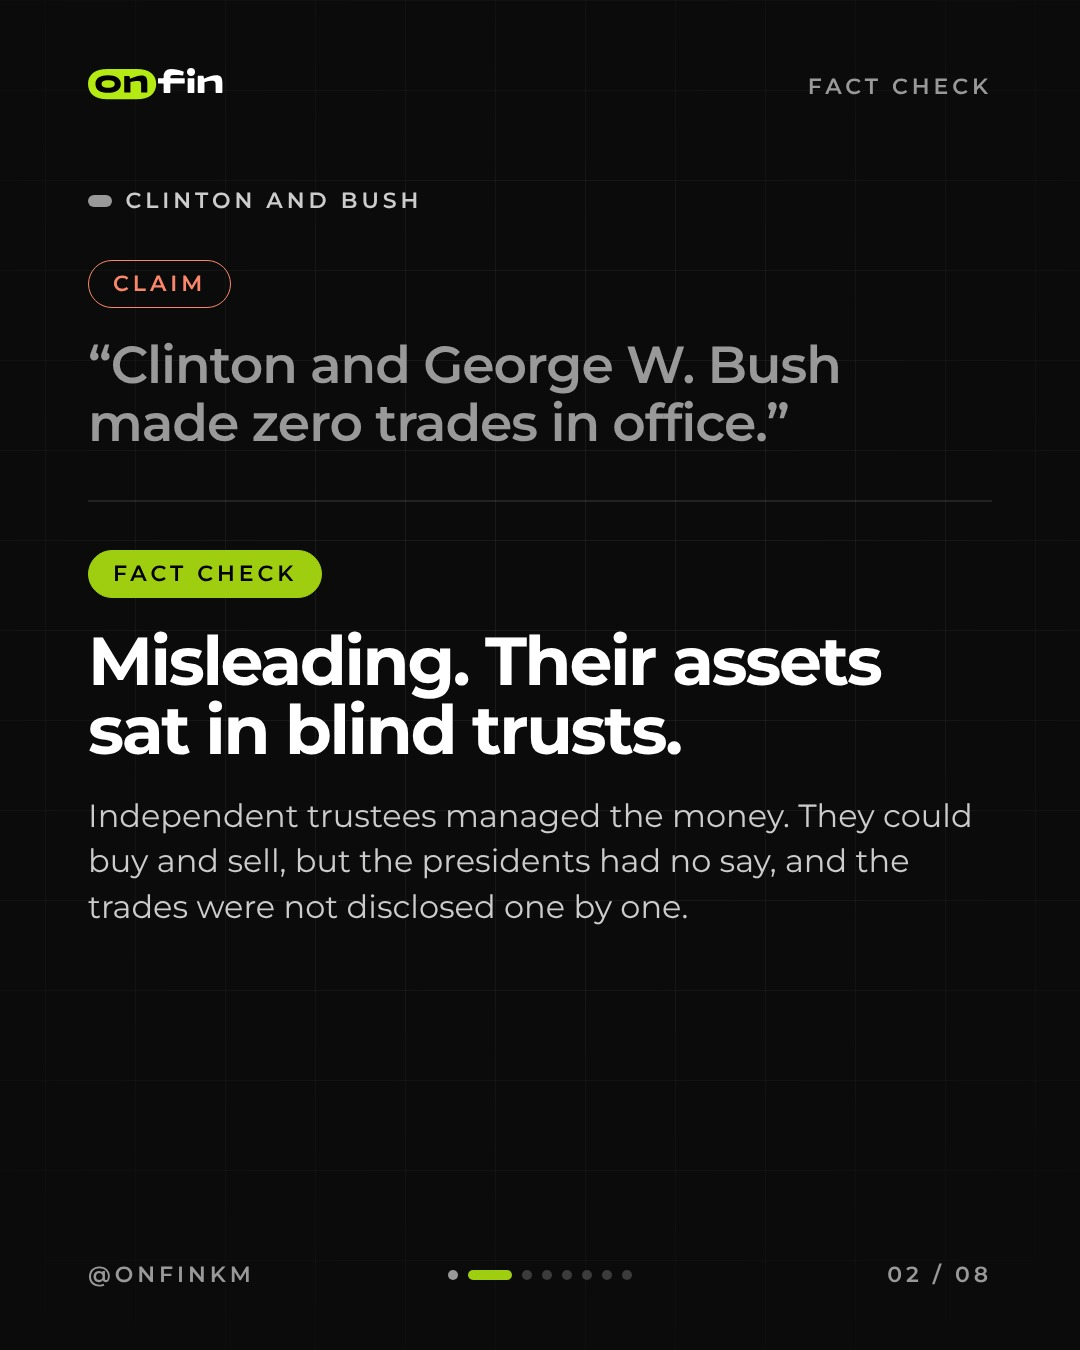
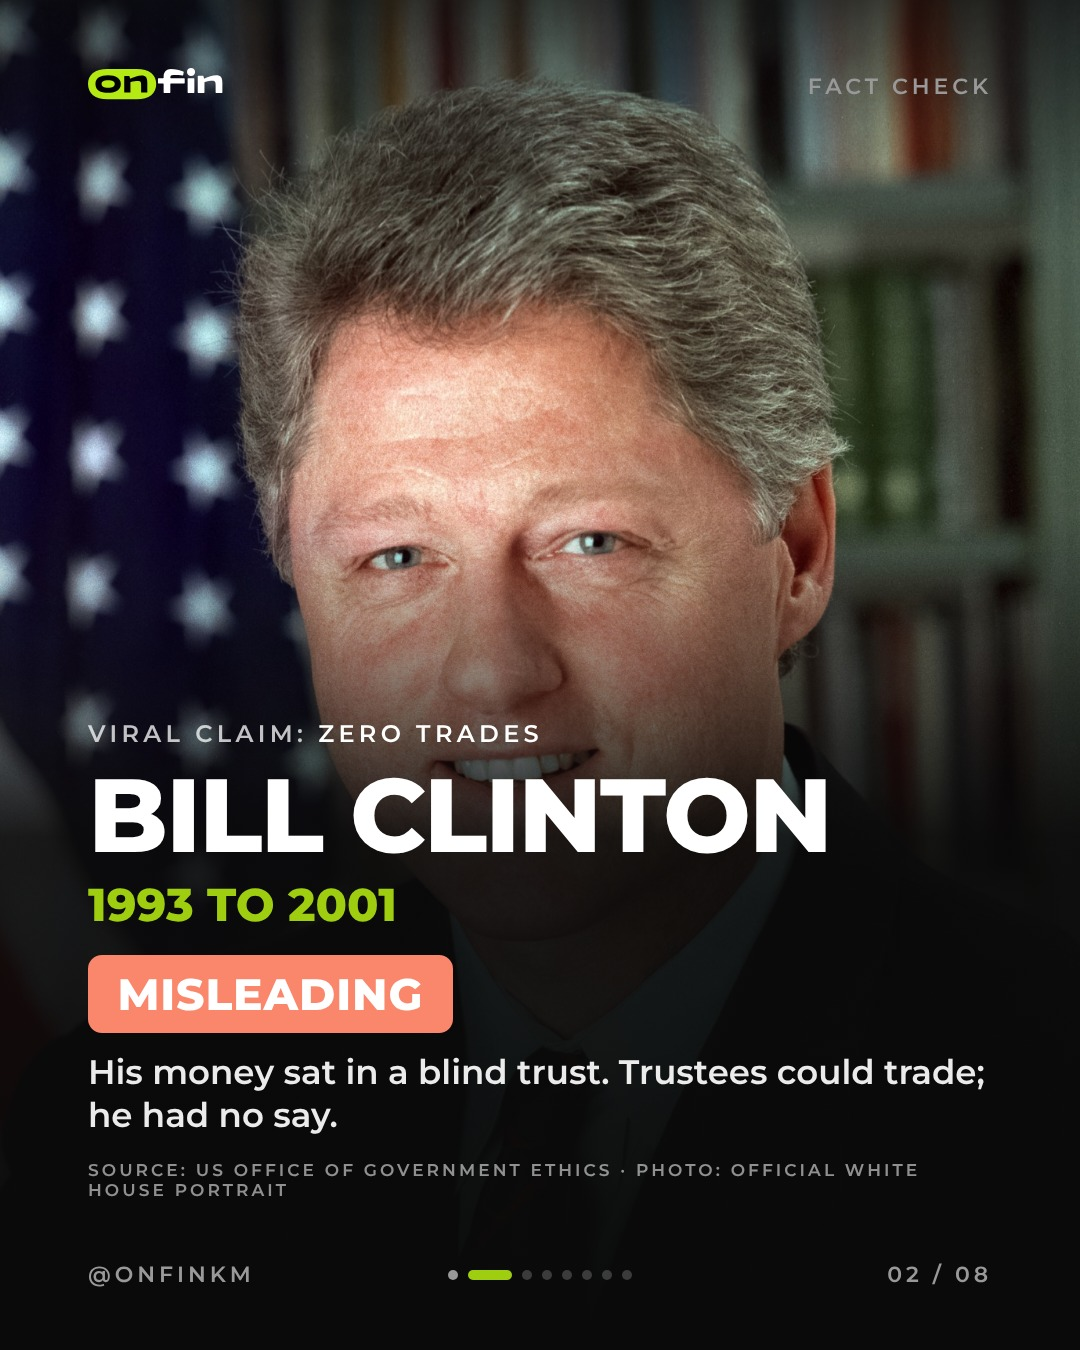
Fact check carousel v2: photo-led slides and portrait grid infographics
Claude-Session: https://claude.ai/code/session_01Njpc59aSxNtNVZngCgv1hR

diff --git a/social/news/fact-check-presidents/_source/pres.js b/social/news/fact-check-presidents/_source/pres.js
@@ -1,0 +1,97 @@
+/* Photo-led fact-check slides (OnFin carousel style): PresCover, PresSlide, PresVs, PresGrid. Plain React.createElement on window.OF core parts. */
+(function () {
+  var h = React.createElement, OF = window.OF;
+  var DISP = { fontFamily: "var(--font-display)", fontWeight: 800, letterSpacing: "-0.02em", lineHeight: 0.95, textTransform: "uppercase", margin: 0 };
+  var MONO = { fontFamily: "var(--font-mono)", fontWeight: "var(--weight-label)", letterSpacing: "var(--tracking-label)", textTransform: "uppercase" };
+  var V = {
+    bad: { color: "#fff", background: "var(--down)", border: "3px solid var(--down)" },
+    ok: { color: "var(--text-on-accent)", background: "var(--accent)", border: "3px solid var(--accent)" },
+    unk: { color: "#fff", background: "rgba(255,255,255,0.12)", border: "3px solid rgba(255,255,255,0.7)" },
+    yes: { color: "var(--text-on-accent)", background: "var(--accent)", border: "3px solid var(--accent)" }
+  };
+  function stamp(text, kind, size) {
+    return h("span", { style: Object.assign({ display: "inline-block", padding: (size || 40) * 0.32 + "px " + (size || 40) * 0.6 + "px", borderRadius: 14, fontFamily: "var(--font-display)",
+      fontWeight: 800, fontSize: size || 40, letterSpacing: "0.02em", textTransform: "uppercase", lineHeight: 1, whiteSpace: "nowrap" }, V[kind]) }, text);
+  }
+  function photo(src, pos, fade, shift) {
+    var sh = shift || 0;
+    return [
+      h("img", { key: "i", src: src, style: { position: "absolute", left: 0, top: -sh, width: "100%", height: "calc(100% + " + sh + "px)", objectFit: "cover", objectPosition: pos || "50% 20%" } }),
+      h("div", { key: "g", style: { position: "absolute", inset: 0, background: "linear-gradient(180deg, rgba(10,10,10,0.75) 0%, rgba(10,10,10,0) 18%, rgba(10,10,10,0) " + (fade || 38) + "%, rgba(10,10,10,0.92) " + ((fade || 38) + 24) + "%, #0a0a0a 100%)" } })
+    ];
+  }
+  function chrome(p) {
+    return [h("div", { key: "m", style: { position: "absolute", inset: 0, zIndex: 3 } }, h(OF.MetaBar, { right: p.meta })),
+            h("div", { key: "s", style: { position: "absolute", inset: 0, zIndex: 3, pointerEvents: "none" } }, h(OF.Signature, { handle: p.handle, index: p.index, total: p.total }))];
+  }
+  window.OF.PresSlide = function (p) {
+    return h(OF.Canvas, { format: "post" },
+      photo(p.photo, p.pos, p.fade, p.shift),
+      h("div", { style: { position: "absolute", left: "var(--margin-canvas)", right: "var(--margin-canvas)", bottom: 150, zIndex: 2, display: "flex", flexDirection: "column", gap: 18 } },
+        h("p", { style: Object.assign({}, MONO, { margin: 0, fontSize: 24, color: "rgba(255,255,255,0.75)" }) }, p.claimLabel + ": ", h("span", { style: { color: "#fff" } }, p.claim)),
+        h("h2", { style: Object.assign({}, DISP, { fontSize: p.nsize || 104, color: "#fff" }) }, p.name),
+        h("p", { style: Object.assign({}, DISP, { fontSize: 46, color: "var(--accent)", letterSpacing: "0" }) }, p.years),
+        h("div", { style: { display: "flex", alignItems: "center", gap: 22, marginTop: 10, flexWrap: "wrap" } },
+          stamp(p.verdict, p.kind, 44),
+          p.big && h("span", { style: Object.assign({}, DISP, { fontSize: 64, color: "#fff" }) }, p.big)),
+        h("p", { style: { margin: 0, fontSize: 34, fontWeight: 600, lineHeight: 1.25, color: "rgba(255,255,255,0.92)", maxWidth: 900 } }, p.line),
+        p.source && h("p", { style: Object.assign({}, MONO, { margin: "6px 0 0", fontSize: 17, color: "rgba(255,255,255,0.55)" }) }, p.source)),
+      chrome(p));
+  };
+  window.OF.PresCover = function (p) {
+    var n = p.photos.length;
+    return h(OF.Canvas, { format: "post" },
+      h("div", { style: { position: "absolute", left: 0, right: 0, top: 0, height: 700, display: "flex" } },
+        p.photos.map(function (s, i) {
+          return h("div", { key: i, style: { flex: 1, position: "relative", overflow: "hidden", borderRight: i < n - 1 ? "3px solid #0a0a0a" : "none" } },
+            h("img", { src: s.src, style: { position: "absolute", inset: 0, width: "100%", height: "100%", objectFit: "cover", objectPosition: s.pos || "50% 15%" } }));
+        })),
+      h("div", { style: { position: "absolute", left: 0, right: 0, top: 0, height: 700, background: "linear-gradient(180deg, rgba(10,10,10,0.75) 0%, rgba(10,10,10,0) 20%, rgba(10,10,10,0) 60%, #0a0a0a 100%)" } }),
+      h("div", { style: { position: "absolute", left: "var(--margin-canvas)", right: "var(--margin-canvas)", top: 610, zIndex: 2, display: "flex", flexDirection: "column", gap: 22 } },
+        h("div", null, stamp(p.kicker, "yes", 30)),
+        h("h1", { style: Object.assign({}, DISP, { fontSize: 100, color: "#fff" }) }, h(OF.Rich, null, p.title)),
+        h("p", { style: { margin: 0, fontSize: 36, fontWeight: 600, lineHeight: 1.25, color: "rgba(255,255,255,0.85)" } }, p.subtitle)),
+      chrome(p));
+  };
+  window.OF.PresVs = function (p) {
+    var max = Math.max.apply(null, p.bars.map(function (b) { return b.value; }));
+    return h(OF.Canvas, { format: "post" },
+      h("div", { style: { position: "absolute", left: "var(--margin-canvas)", right: "var(--margin-canvas)", top: 200, display: "flex", flexDirection: "column", gap: 40 } },
+        h("h2", { style: Object.assign({}, DISP, { fontSize: 96, color: "#fff" }) }, h(OF.Rich, null, p.heading)),
+        h("div", { style: { display: "flex", flexDirection: "column", gap: 34, marginTop: 20 } },
+          p.bars.map(function (b, i) {
+            return h("div", { key: i, style: { display: "flex", flexDirection: "column", gap: 12 } },
+              h("div", { style: { display: "flex", alignItems: "center", gap: 20 } },
+                b.photo && h("img", { src: b.photo, style: { width: 84, height: 84, borderRadius: "50%", objectFit: "cover", objectPosition: "50% 18%", border: "3px solid " + (b.hi ? "var(--accent)" : "rgba(255,255,255,0.4)") } }),
+                h("span", { style: { fontSize: 34, fontWeight: 700, color: "#fff" } }, b.label)),
+              h("div", { style: { display: "flex", alignItems: "center", gap: 22 } },
+                h("div", { style: { height: 64, width: (b.value / max * 640) + "px", borderRadius: 12, background: b.hi ? "var(--accent)" : "rgba(255,255,255,0.28)" } }),
+                h("span", { style: Object.assign({}, DISP, { fontSize: 64, color: b.hi ? "var(--accent)" : "#fff" }) }, b.text)));
+          })),
+        h("p", { style: Object.assign({}, MONO, { margin: "10px 0 0", fontSize: 19, color: "var(--text-tertiary)" }) }, p.source),
+        h("p", { style: { margin: "30px 0 0", fontSize: 34, fontWeight: 700, color: "#fff" } }, p.cta)),
+      p.risk && h("p", { style: { position: "absolute", left: "var(--margin-canvas)", right: "var(--margin-canvas)", bottom: 120, margin: 0, fontSize: 20, color: "var(--text-tertiary)" } }, p.risk),
+      chrome(p));
+  };
+  /* Single-image infographic: title + 2x3 grid of portrait tiles with verdict stamps. */
+  window.OF.PresGrid = function (p) {
+    return h(OF.Canvas, { format: "post" },
+      h(OF.MetaBar, { right: p.meta }),
+      h("div", { style: { position: "absolute", left: "var(--margin-canvas)", right: "var(--margin-canvas)", top: 140, display: "flex", flexDirection: "column", gap: 22 } },
+        h("h2", { style: Object.assign({}, DISP, { fontSize: p.tsize || 60, color: "#fff" }) }, h(OF.Rich, null, p.title)),
+        h("div", { style: { display: "grid", gridTemplateColumns: "1fr 1fr 1fr", gap: 14 } },
+          p.tiles.map(function (t, i) {
+            return h("div", { key: i, style: { position: "relative", height: p.th || 350, borderRadius: 18, overflow: "hidden", background: "#151515" } },
+              h("img", { src: t.photo, style: { position: "absolute", inset: 0, width: "100%", height: "100%", objectFit: "cover", objectPosition: t.pos || "50% 15%" } }),
+              h("div", { style: { position: "absolute", inset: 0, background: "linear-gradient(180deg, rgba(10,10,10,0) 30%, rgba(10,10,10,0.95) 72%)" } }),
+              h("div", { style: { position: "absolute", left: 16, right: 12, bottom: 16, display: "flex", flexDirection: "column", gap: 6 } },
+                h("span", { style: Object.assign({}, DISP, { fontSize: 32, color: "#fff" }) }, t.name),
+                h("span", { style: Object.assign({}, MONO, { fontSize: 15, color: "var(--accent)" }) }, t.years),
+                h("span", { style: { fontSize: 19, fontWeight: 600, color: "rgba(255,255,255,0.8)", } }, t.claim),
+                h("div", { style: { marginTop: 4 } }, stamp(t.verdict, t.kind, t.vsize || 21))));
+          })),
+        h("p", { style: { margin: 0, fontSize: 21, lineHeight: 1.4, color: "var(--text-tertiary)" } }, p.footnote),
+        p.risk && h("p", { style: { margin: "-10px 0 0", fontSize: 19, lineHeight: 1.35, color: "var(--text-tertiary)", opacity: 0.85 } }, p.risk)),
+      h(OF.Signature, { handle: p.handle }));
+  };
+})();

diff --git a/social/news/fact-check-presidents/_source/pres_build.py b/social/news/fact-check-presidents/_source/pres_build.py
@@ -1,0 +1,76 @@
+"""Photo-led fact check (v2): IG carousel EN (8 slides) + 2x3 portrait grid infographic in EN, MS, RU, ES.
+python3 pres_build.py -> renders into scratchpad/prestrades2/out"""
+import os, subprocess
+from common import Week, S
+
+P = lambda k: f"file://{S}/portraits/p_{k}.jpg"
+PH = "Photo: official White House portrait"
+RISK = {"en": "Not investment advice. CFDs are high-risk; you may lose money.",
+        "ms": "Bukan nasihat pelaburan. CFD berisiko tinggi; anda mungkin kehilangan wang.",
+        "ru": "Не является инвестиционной рекомендацией. CFD относятся к высокорисковым инструментам; вы можете потерять деньги.",
+        "es": "No es asesoramiento de inversión. Los CFD son de alto riesgo; puedes perder dinero."}
+W = Week("prestrades2")
+T = 8
+m = dict(meta="Fact check", total=T)
+W.lib("PresCover", dict(m, index=1, kicker="Fact check", title="Do US presidents\n*trade stocks*?",
+      subtitle="Six viral claims, checked one by one.",
+      photos=[{"src": P(k)} for k in ("clinton", "bush", "obama", "trump1", "biden", "trump2")]), "pres-en-01.png")
+SL = [
+ dict(photo=P("clinton"), name="Bill Clinton", years="1993 to 2001", claim="Zero trades", verdict="Misleading", kind="bad",
+      line="His money sat in a blind trust. Trustees could trade; he had no say.", source="Source: US Office of Government Ethics · " + PH),
+ dict(photo=P("bush"), name="George W. Bush", years="2001 to 2009", claim="Zero trades", verdict="Misleading", kind="bad", nsize=96,
+      line="Same story: a blind trust, run by an independent trustee.", source="Source: US Office of Government Ethics · " + PH),
+ dict(photo=P("obama"), name="Barack Obama", years="2009 to 2017", claim="Zero trades", verdict="Mostly true", kind="ok", pos="50% 10%",
+      line="No individual stocks. Treasuries and index funds only.", source="Source: Fortune · " + PH),
+ dict(photo=P("trump1"), name="Donald Trump", years="2017 to 2021", claim="431 trades", verdict="Unverified", kind="unk",
+      line="We found no source for 431. His 2017 filing listed 86 stock trades.", source="Source: ABC News · " + PH),
+ dict(photo=P("biden"), name="Joe Biden", years="2021 to 2025", claim="Zero trades", verdict="Mostly true", kind="ok",
+      line="No stocks owned directly in his disclosures.", source="Sources: Snopes, OGE filings · " + PH),
+ dict(photo=P("trump2"), shift=170, fade=44, name="Donald Trump", years="2025 to now", claim="28,700 trades", verdict="True", kind="yes", big="28,700",
+      line="Trades by Trump or his money managers in 17 months. The White House says outside managers run them.",
+      source="Source: Bloomberg, Jan 2025 to Jun 2026 · " + PH),
+]
+for i, s in enumerate(SL, 2):
+    W.lib("PresSlide", dict(m, index=i, claimLabel="Viral claim", **s), f"pres-en-{i:02d}.png")
+W.lib("PresVs", dict(m, index=8, heading="More trades than\n*all of Congress*.",
+      bars=[{"label": "Trump and his money managers", "value": 28700, "text": "28,700", "photo": P("trump2"), "hi": True},
+            {"label": "All 535 members of Congress", "value": 22200, "text": "22,200"}],
+      source="Jan 2025 to Jun 2026. Source: Bloomberg review of financial disclosures",
+      cta="Follow @onfinkm for more fact checks.", risk=RISK["en"]), "pres-en-08.png")
+
+G = {
+ "en": dict(meta="Fact check", title="Presidents and stocks,\n*fact checked*.",
+            names=["Clinton", "Bush", "Obama", "Trump", "Biden", "Trump"],
+            years=["1993 to 2001", "2001 to 2009", "2009 to 2017", "2017 to 2021", "2021 to 2025", "2025 to now"],
+            claims=["Claim: zero trades", "Claim: zero trades", "Claim: zero trades", "Claim: 431 trades", "Claim: zero trades", "Claim: 28,700 trades"],
+            verd=["Misleading", "Misleading", "Mostly true", "Unverified", "Mostly true", "True"], vs=21,
+            foot="Clinton and Bush used blind trusts. 28,700: Bloomberg count of trades by Trump or his money managers, Jan 2025 to Jun 2026. Sources: Bloomberg, ABC News, Fortune, Snopes. Photos: White House."),
+ "ms": dict(meta="Semakan fakta", title="Presiden AS dan saham,\n*disemak fakta*.",
+            names=["Clinton", "Bush", "Obama", "Trump", "Biden", "Trump"],
+            years=["1993 hingga 2001", "2001 hingga 2009", "2009 hingga 2017", "2017 hingga 2021", "2021 hingga 2025", "2025 hingga kini"],
+            claims=["Dakwaan: sifar dagangan", "Dakwaan: sifar dagangan", "Dakwaan: sifar dagangan", "Dakwaan: 431 dagangan", "Dakwaan: sifar dagangan", "Dakwaan: 28,700 dagangan"],
+            verd=["Mengelirukan", "Mengelirukan", "Hampir benar", "Tidak disahkan", "Hampir benar", "Benar"], vs=19,
+            foot="Clinton dan Bush menggunakan amanah buta. 28,700: kiraan Bloomberg bagi dagangan oleh Trump atau pengurus wangnya, Jan 2025 hingga Jun 2026. Sumber: Bloomberg, ABC News, Fortune, Snopes. Foto: Rumah Putih."),
+ "ru": dict(meta="Проверка фактов", title="Президенты США и акции:\n*проверка фактов*.",
+            names=["Клинтон", "Буш", "Обама", "Трамп", "Байден", "Трамп"],
+            years=["с 1993 по 2001", "с 2001 по 2009", "с 2009 по 2017", "с 2017 по 2021", "с 2021 по 2025", "с 2025 года"],
+            claims=["Утверждение: 0 сделок", "Утверждение: 0 сделок", "Утверждение: 0 сделок", "Утверждение: 431 сделка", "Утверждение: 0 сделок", "Утверждение: 28 700 сделок"],
+            verd=["Вводит в заблуждение", "Вводит в заблуждение", "В основном правда", "Не подтверждено", "В основном правда", "Правда"], vs=14,
+            foot="Клинтон и Буш использовали слепые трасты. 28 700: подсчёт Bloomberg сделок Трампа или его управляющих, с января 2025 по июнь 2026. Источники: Bloomberg, ABC News, Fortune, Snopes. Фото: Белый дом."),
+ "es": dict(meta="Verificación", title="Presidentes y acciones,\n*verificado*.",
+            names=["Clinton", "Bush", "Obama", "Trump", "Biden", "Trump"],
+            years=["1993 a 2001", "2001 a 2009", "2009 a 2017", "2017 a 2021", "2021 a 2025", "2025 a hoy"],
+            claims=["Afirmación: cero operaciones", "Afirmación: cero operaciones", "Afirmación: cero operaciones", "Afirmación: 431 operaciones", "Afirmación: cero operaciones", "Afirmación: 28,700 operaciones"],
+            verd=["Engañoso", "Engañoso", "Mayormente cierto", "Sin verificar", "Mayormente cierto", "Cierto"], vs=17,
+            foot="Clinton y Bush usaron fideicomisos ciegos. 28,700: conteo de Bloomberg de operaciones de Trump o sus gestores, enero 2025 a junio 2026. Fuentes: Bloomberg, ABC News, Fortune, Snopes. Fotos: Casa Blanca."),
+}
+KIND = ["bad", "bad", "ok", "unk", "ok", "yes"]
+PHOTOS = ["clinton", "bush", "obama", "trump1", "biden", "trump2"]
+for l, g in G.items():
+    tiles = [dict(photo=P(PHOTOS[i]), pos=("50% 40%" if PHOTOS[i] == "trump2" else None), name=g["names"][i], years=g["years"][i], claim=g["claims"][i], verdict=g["verd"][i], kind=KIND[i], vsize=g["vs"])
+             for i in range(6)]
+    W.lib("PresGrid", dict(meta=g["meta"], title=g["title"], tiles=tiles, footnote=g["foot"], risk=RISK[l]), f"pres-grid-{l}.png")
+W.save()
+r = subprocess.run(["node", "render_page.js", f"{S}/{W.name}/lib_jobs.json"], cwd=f"{S}/igtools",
+                   env={**os.environ, "LIB": f"{S}/iglib/library", "PAGE": "render_ft.html"}, capture_output=True, text=True)
+print(r.stdout[-200:], r.stderr[-800:])

diff --git a/social/news/fact-check-presidents/captions.md b/social/news/fact-check-presidents/captions.md
@@ -11,23 +11,23 @@ Verdicts:
 
 Sources: Bloomberg, "Trump Made 29,000 Securities Trades, More Than All of Congress" (Sep 2026); ABC News, "Trump discloses 21,000 securities trades during first year in office"; Fortune (2012) on Obama's holdings; Snopes on Biden's holdings; OGE Form 278e filings.
 
+Design v2 (photo-led, 30 Oct): official White House portraits from Wikimedia Commons, public domain.
+
 Files: carousel-01..08.jpg (Instagram), infographic-en.jpg (Facebook, Telegram EN and Cambodia), infographic-ms/ru/es.jpg (Telegram MS, RU, ES).
 
 ## instagram
 
-Do US presidents trade stocks while in office? A viral post says Clinton, Bush, Obama and Biden made zero trades, Trump made 431 in his first term and 28,700 since 2025. We checked each claim.
+Do US presidents trade stocks while in office? A viral post made six claims. We checked each one.
 
-Clinton and George W. Bush: misleading. Their assets sat in blind trusts run by independent trustees. Trading could happen inside the trust, but the presidents had no say and the trades were not disclosed one by one.
+Clinton and Bush, "zero trades": misleading. Their money sat in blind trusts run by independent trustees.
 
-Obama and Biden: mostly true. Neither held individual stocks. Obama kept his money in Treasuries and index funds (Fortune), and Biden's disclosures show no stocks owned directly (Snopes).
+Obama and Biden, "zero trades": mostly true. No individual stocks.
 
-Trump, 2017 to 2021: unverified. ABC News reports his 2017 disclosure listed 86 stock transactions. We found no source for 431.
+Trump 2017 to 2021, "431 trades": unverified. ABC News reports 86 stock trades on his 2017 filing.
 
-Trump, since January 2025: true. Bloomberg counted nearly 28,700 trades by Trump or his money managers through June 2026, more than the roughly 22,200 reported by all members of Congress over the same period. The White House says outside managers run the accounts through automated portfolios.
+Trump since 2025, "28,700 trades": true. That is Bloomberg's count for Trump or his money managers through June 2026, more than all of Congress combined (about 22,200).
 
-These filings arrive up to 45 days after a trade and show values in broad ranges, so they tell you what already happened, not what comes next.
-
-Sources: Bloomberg (Sep 2026), ABC News, Fortune, Snopes, US Office of Government Ethics filings.
+Sources: Bloomberg, ABC News, Fortune, Snopes, OGE filings. Photos: official White House portraits (public domain).
 
 Not investment advice. CFDs are high-risk; you may lose money.
 
